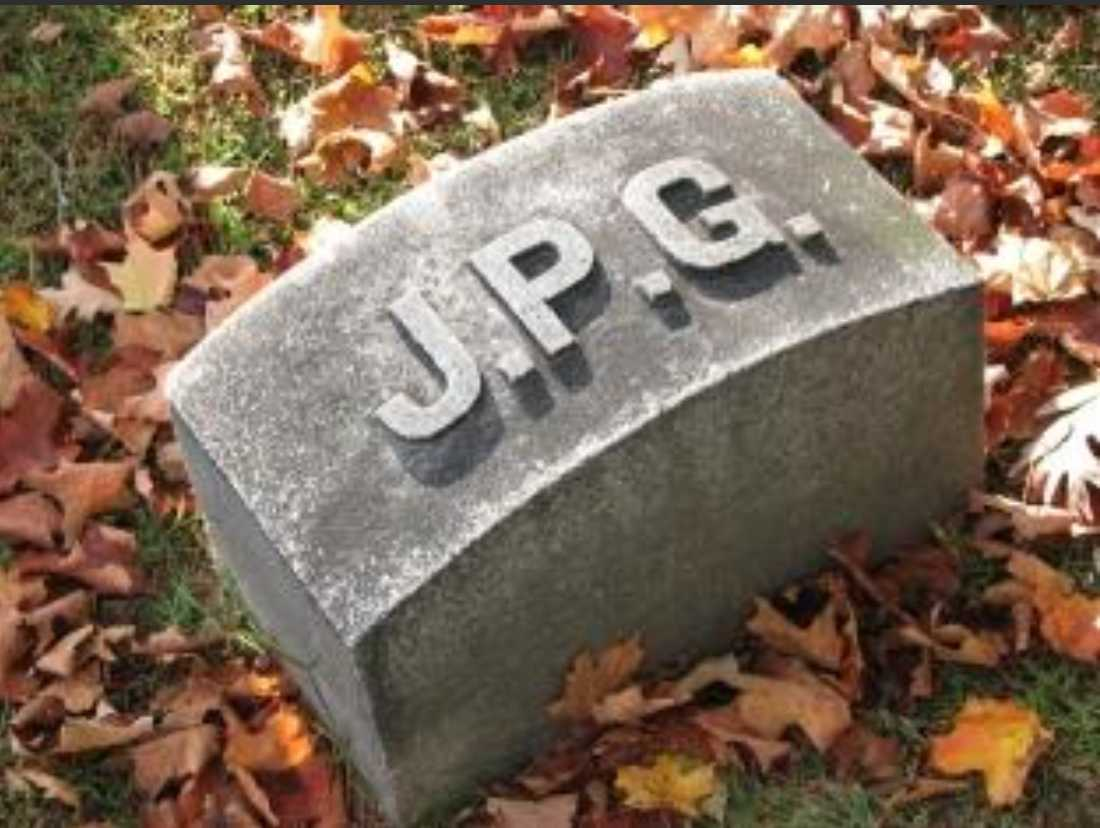
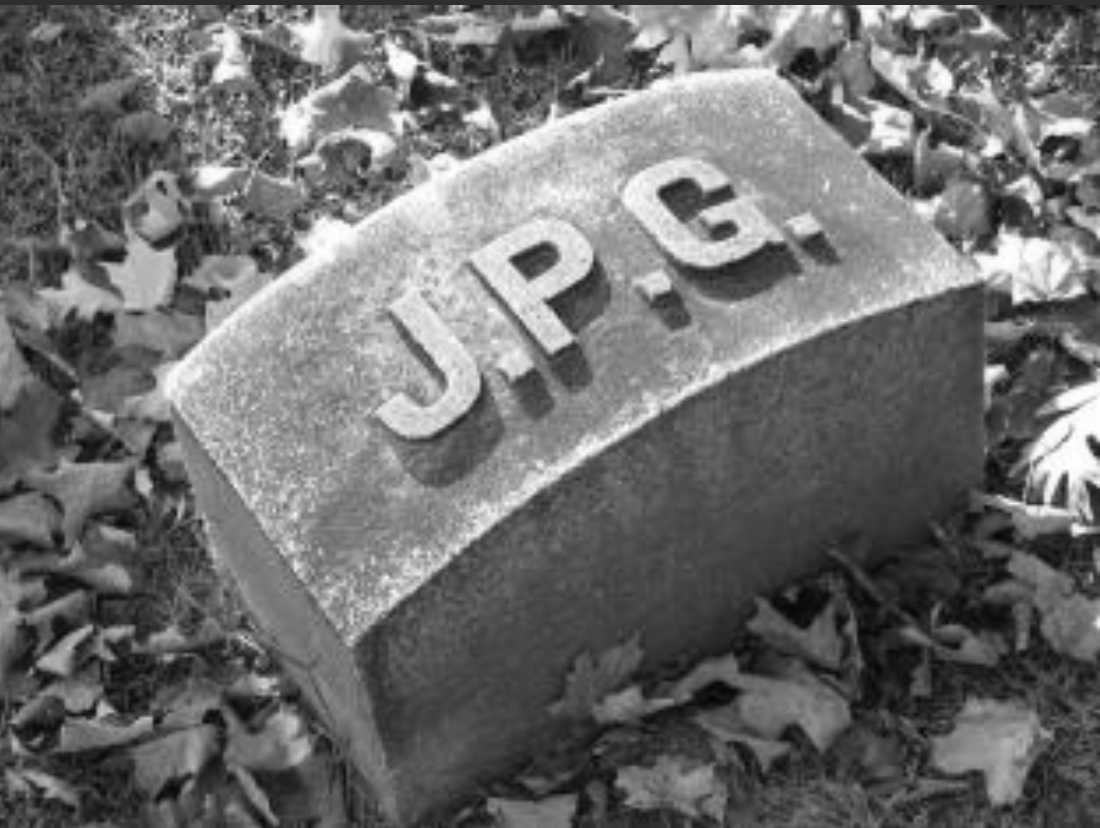
actual-jpeg

diff --git a/main/actual_jpeg.py b/main/actual_jpeg.py
@@ -8,5 +8,8 @@ if image.mode == 'RGBA':
     # Convert RGBA to RGB
     image = image.convert('RGB')
 
+# Convert the image to grayscale
+image = image.convert('L')  # 'L' mode is for grayscale
+
 # Save the image in JPEG format with adjustable quality
 image.save("compressed_image.jpeg", "JPEG", quality=50)  # Quality ranges from 1 (worst) to 95 (best)
